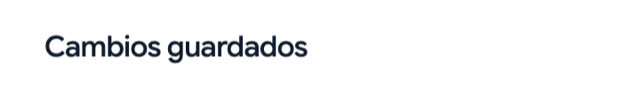
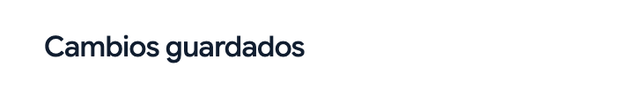
native: parejas React/SwiftUI de Overlays a la misma escala (pair-comparison.sh) y capturas de comparación a ancho de story
Claude-Session: https://claude.ai/code/session_015DmhuaymCyCFJXeC87mgDG

Changed region(s): [[0.0599, 0.3711, 0.4795, 0.6804]]

diff --git a/native/apple/Tests/StudiolxdBrandTests/OverlaysSnapshotTests.swift b/native/apple/Tests/StudiolxdBrandTests/OverlaysSnapshotTests.swift
@@ -90,6 +90,25 @@ final class OverlaysSnapshotTests: XCTestCase {
         assertBrandSnapshots(dialog(state: (true, "", false)), width: 590, height: 330, named: "pending")
     }
 
+
+    // MARK: Parejas con React (mismo ancho que la story, sin relleno)
+
+    func testComparisonConfirmDestructive() {
+        assertBrandSnapshots(dialog(), width: 550, height: 250, named: "compare-confirm", padding: 0)
+    }
+
+    func testComparisonSheet() {
+        assertBrandSnapshots(sheet(width: 320), width: 320, height: 560, named: "compare-sheet", padding: 0)
+    }
+
+    func testComparisonToasts() {
+        let view = VStack(spacing: BrandSpacing.s2) {
+            BrandToastCard(item: ToastItem(id: "n", title: "Cambios guardados"), onClose: {})
+            BrandToastCard(item: ToastItem(id: "e", title: "No se pudo guardar el proyecto", intent: .error), onClose: {})
+        }
+        assertBrandSnapshots(view, width: 360, height: 190, named: "compare-toasts", padding: 0)
+    }
+
     // MARK: Toast
 
     private func item(_ intent: ToastIntent, action: Bool = false) -> ToastItem {
